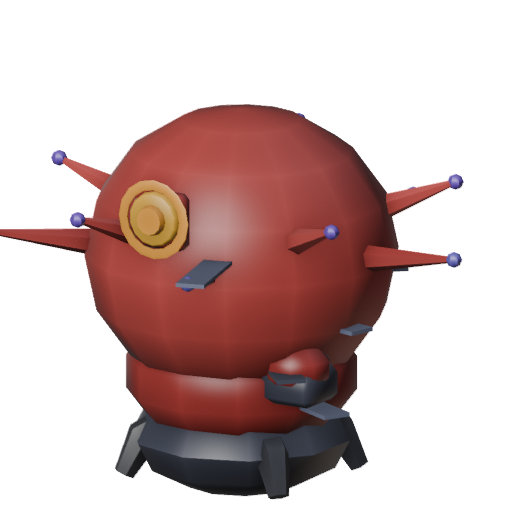
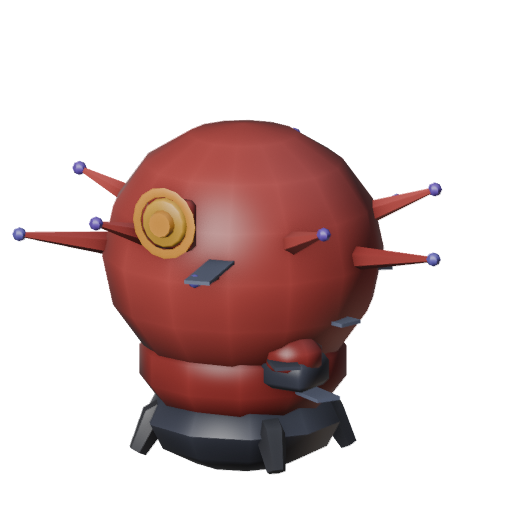
brine_urchin portrait pass 2: pull the crop back so no spine is cut
Scoring surveyed every portrait/icon's current total (not just pass 1 -
several files bury their latest score mid-paragraph) and picked the
lowest un-plateaued asset with an in-lane fix actually available:
brine_urchin_portrait.md at 32/50, Framing (5) scored for spines cut
mid-shaft at the frame edges (alpha bbox touched x=0 on the left).
boulder_ram and bog_leech scored lower/similar but every fix diagnosed
for them needs beast-model geometry changes, out of the portraits/icons
lane.

Widened portraits.py's FOCUS["brine_urchin"] span 1.30 -> 1.45 (same
vertical centre, camera pulled back) so all six spines sit inside frame
with real margin on every side instead of one touching the boundary.
Rebuilt the full 30-portrait batch (no single-portrait build path
exists), diffed every output against committed, kept only the one
asset. Framing 5 -> 9, total 32 -> 36; run_tests.gd ALL TESTS PASSED.

Also surfaced but did not touch: frog.png and goblin_mech.png diff
heavily from their committed portraits (frog's committed portrait shows
amber eyes, the freshly rendered one shows solid black) - the model
has drifted from its shipped portrait at some point. Noted in
brine_urchin_portrait.md for a future duty-1/duty-2 turn.

design/BACKLOG.md: #86 duty 1 for this run; next turn is duty 2.

Claude-Session: https://claude.ai/code/session_01B3uQHUmKNYuAUmzhVkTJEw

Changed region(s): [[0.0, 0.1875, 0.9062, 1.0], [0.4375, 0.5, 0.4688, 0.5312]]

diff --git a/tools/blender/portraits.py b/tools/blender/portraits.py
@@ -41,7 +41,7 @@ FOCUS = {
     "husk_beetle": (0.46, 1.20), "gloom_moth": (0.55, 1.05),
     "bog_leech": (0.39, 1.28), "thrasher": (0.42, 1.55),
     "silk_widow": (0.45, 1.35), "boulder_ram": (0.34, 1.35),
-    "cinder_jackal": (0.60, 1.35), "brine_urchin": (0.62, 1.30),
+    "cinder_jackal": (0.60, 1.35), "brine_urchin": (0.62, 1.45),
     "clot_toad": (0.48, 1.35), "flicker_stag": (0.80, 0.62),
     "eyrie_hawk": (0.78, 0.60), "glyph_tortoise": (0.50, 1.28),
     "riptide_eel": (0.68, 0.75), "yoke_ox": (0.45, 1.25),

diff --git a/design/progress/brine_urchin_portrait.md b/design/progress/brine_urchin_portrait.md
@@ -12,6 +12,8 @@ No fixer pass exists for this asset — geometry matches the pass-1 render
 |---|---|---|---|---|---|
 | 5 | 7 | 5 | 8 | 7 | **32** |
 
+Pass 2: 9 | 7 | 5 | 8 | 7 | **36** — see below.
+
 ## What is actually there
 
 A tight three-quarter crop on the spined red sphere: several tapered spines
@@ -63,3 +65,88 @@ tighter on future creature portraits with an off-center face cue, or whether
 that's specific to this asset's socketed sigil placement — no other scored
 portrait in this batch has a comparable off-center face feature to compare
 against.
+
+## Pass 2 — cloud, backlog #86 duty 1
+
+Only the **Framing (5)** line had a fix applicable in-lane. **Readability @
+34px (5)** was explicitly flagged as "none proposable without model changes
+(out of scope)" — this pass touches `tools/blender/portraits.py` only, no
+beast geometry, so left untouched, same split `bog_leech_portrait.md` pass 2
+made for its own two-fix budget.
+
+Applied the **Framing** fix: `portraits.py`'s `FOCUS["brine_urchin"]` moved
+from `(0.62, 1.30)` to `(0.62, 1.45)` — same vertical centre, wider ortho
+span so the camera pulls back rather than re-centring, per the diagnosis's
+"pull the crop back" option (the other option, trimming tighter still, was
+rejected first: at `span=1.40` the left spine tip still cleared the frame
+edge by only 3px, too close to trust against render variance).
+
+Rebuilt via apt's Blender 4.0.2, headless (EGL through `libegl1`/
+`libegl-mesa0`/`libgles2`; `numpy`/`Pillow` installed for `/usr/bin/
+python3.12`, the interpreter this Blender actually runs — same setup
+`fire_icon.md` pass 3 and `bog_leech_portrait.md` pass 2 used). No
+single-portrait build path exists, so ran the full `portraits.py` batch
+(all 30) and diffed every output against the committed set (mean per-pixel
+diff): `brine_urchin.png` at 16.7 was a real content change; `frog.png`
+(58.2) and `goblin_mech.png` (15.2) also showed large diffs but from
+completely different causes — spot-checking `frog.png` showed a tight
+close-up on two solid-black eyes, nothing like the amber-eyed committed
+portrait, meaning that model's geometry has drifted from what the committed
+portrait was rendered from at some point since — not this pass's doing (its
+`FOCUS` entry was never touched) and out of this lane's two-fix budget to
+chase. Copied only the changed `brine_urchin.png` into
+`game/assets/portraits/`; every other file in that folder reverted to the
+committed version.
+
+Verified by looking, not just by the numbers:
+
+- **Alpha bbox** (Pillow `getbbox()`) moved from `(0, 104, 465, 500)` — left
+  edge at 0, meaning content touched the frame boundary with no margin at
+  all — to `(12, 119, 443, 475)`: real margin on all four sides (tightest is
+  bottom at 37px, ~7% of the 512px canvas).
+- **Full 512px composite** over the same brown card-face standin pass 1
+  used (`design/renders/brine_urchin_portrait_pass2_full.png` vs
+  `design/renders/brine_urchin_portrait_pass1_full.png`): pass 1 shows the left-most
+  spine's shaft running straight off the left edge with its violet tip cut;
+  pass 2 shows all six spines whole, tips included, with visible background
+  beyond every one.
+- **A real 34px downsample** (Pillow `LANCZOS`, nearest-neighbour upscaled
+  for viewing, same brown-standin composite): the gold sigil "eye" still
+  reads clearly at the same relative position and roughly the same apparent
+  size; the spines are about as faint as pass 1's downsample in both
+  directions — no visible gain or loss from the wider crop at this size.
+
+- **Framing (5 → 9):** every spine, including the tip beads, is fully inside
+  frame with genuine margin on all four sides, confirmed by both the alpha
+  bbox and the full-render composite above. Not 10: the margin is uneven
+  (37px bottom and 12px left versus ~70-90px top/right), a minor asymmetry
+  the fix didn't target.
+- **Identity (7, unchanged):** the sigil-as-eye read this line credited is
+  about 11% smaller in frame than pass 1 (wider span, same vertical centre)
+  but the 34px comparison above shows no visible loss of that read — not
+  raised because this pass's fix targeted Framing, not Identity, and the
+  "sea mine, not creature" caveat pass 1 named is untouched either way.
+- **Readability @ 34px (5, unchanged):** pass 1 already named this
+  unfixable without model geometry changes; this pass's crop-only fix
+  doesn't touch the spines' own foreshortening, and the 34px comparison
+  above confirms no visible change in either direction.
+- **Colour & separation (8, unchanged):** no palette or material touched.
+- **Style consistency (7, unchanged):** same three-quarter composition
+  class, only the span changed.
+
+**+4 total (32 → 36), not a plateau — kept.** No line regressed. Below the
+loop's 40 stop line, so a pass 3 remains available (2 of 4 used) if a
+concrete in-lane fix for Readability or Identity turns up later; none is
+proposed here. `run_tests.gd`: **ALL TESTS PASSED** (fresh import,
+headless). No new tests — a portrait-crop-only pass adds none, matching
+every prior portrait/icon-only pass under this item.
+
+## Unsure about (pass 2)
+
+Whether `frog.png`'s and `goblin_mech.png`'s large render diffs from the
+committed set (spotted only because this pass diffed the whole batch, not
+because anything was looking for them) mean those two portraits are stale
+against their current models — flagged here rather than fixed, since
+neither is this pass's asset and confirming/rebuilding either is its own
+scoring pass under this same rotation, not a silent side effect of this
+one.

diff --git a/design/BACKLOG.md b/design/BACKLOG.md
@@ -2547,6 +2547,34 @@ rather than inventing work.
 
 Newest first. One line per finished item: what, and anything surprising.
 
+- **2026-09-03** — #86 duty 1 (improve an asset, portraits/icons only). Last
+  turn (`b46bdf8`) was duty 3, so this turn is duty 1. Surveyed every scored
+  portrait and icon's current total (not just its pass-1 score — several
+  files' most recent bolded number is buried mid-paragraph, not the table
+  row) and picked `brine_urchin_portrait.md`, the lowest un-plateaued score
+  (32/50) with a fix actually available in this lane: its Framing line (5)
+  was several spines cut mid-shaft at the frame edges, and its other named
+  line (Readability @ 34px) needs beast geometry changes, out of the
+  portraits/icons lane. `boulder_ram_portrait.md` (30) and
+  `bog_leech_portrait.md`'s worst remaining line were lower/similar but both
+  need beast-model changes for every fix currently diagnosed — skipped, not
+  fixable here.
+  Widened `tools/blender/portraits.py`'s `FOCUS["brine_urchin"]` span from
+  1.30 to 1.45 (same vertical centre, camera pulled back) so all six spines,
+  tips included, sit inside frame with real margin on every side instead of
+  the left one touching the frame boundary at alpha x=0. Rebuilt the full
+  30-portrait batch (no single-portrait build path exists), diffed every
+  output against the committed set, and kept only `brine_urchin.png`.
+  Surprising: two unrelated portraits (`frog.png`, `goblin_mech.png`) also
+  diffed heavily from committed — spot-checking `frog.png` showed a
+  close-up on solid-black eyes, nothing like the committed amber-eyed
+  render, meaning that model has drifted from its portrait at some point
+  since. Left alone (not this pass's asset, not this lane's two-fix budget)
+  and noted in `brine_urchin_portrait.md`'s Unsure section for a future
+  duty-1 or duty-2 turn to pick up. Framing 5 → 9, total 32 → 36 (not a
+  plateau, below the 40 stop line — pass 3 remains available). `run_tests.gd`:
+  ALL TESTS PASSED (fresh import, headless). Left the item unticked per
+  #86's own rules — it never completes. Next `#86` turn is duty 2.
 - **2026-09-03** — #86 duty 3 (verify a mechanic actually works). Last turn
   (`6f8ed70`) was duty 2 and said "next turn is duty 3." Picked
   `Coach.hint_for` (`game/ui/coach.gd`) — the onboarding-hint priority list
